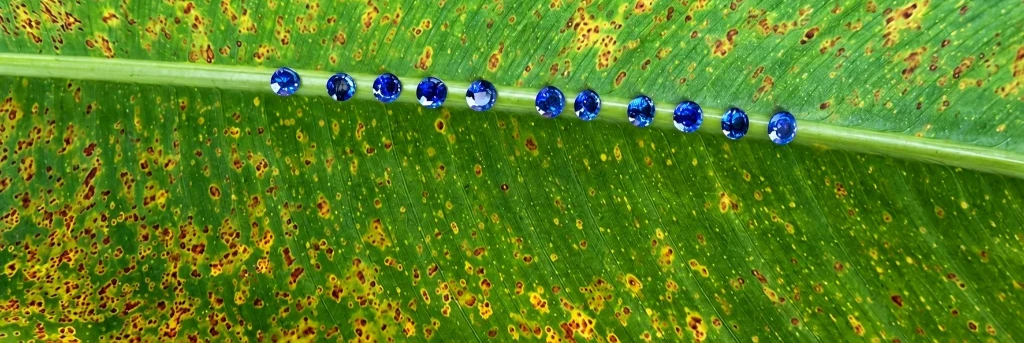
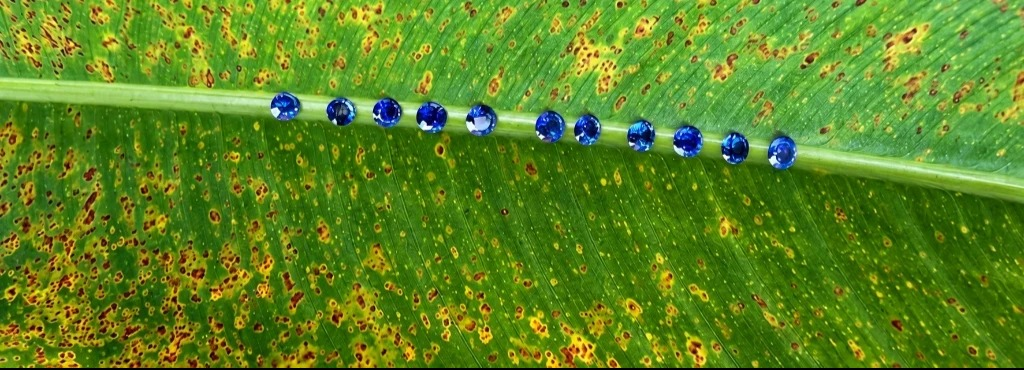
updated hero

diff --git a/custom.css b/custom.css
@@ -1733,9 +1733,9 @@ body:has(.bh-home-redesign) main .bh-home-redesign > section:has(.box-bg-32)::af
      Override earlier full-viewport min-height declarations. */
   body:has(.bh-home-redesign) main .bh-home-redesign section.bh-home-hero {
     box-sizing: border-box !important;
-    height: clamp(560px, 100svh, 760px) !important;
-    min-height: 560px !important;
-    max-height: 760px !important;
+    height: clamp(420px, 85svh, 660px) !important;
+    min-height: 420px !important;
+    max-height: 660px !important;
     padding-top: clamp(125px, 15svh, 190px) !important;
     padding-bottom: 24px !important;
     align-items: center !important;
